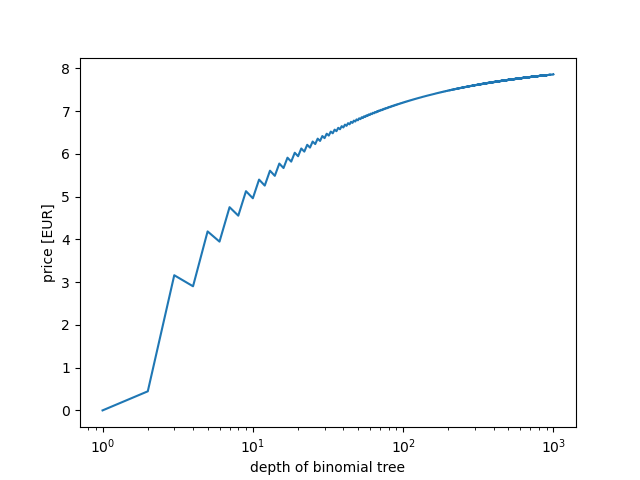
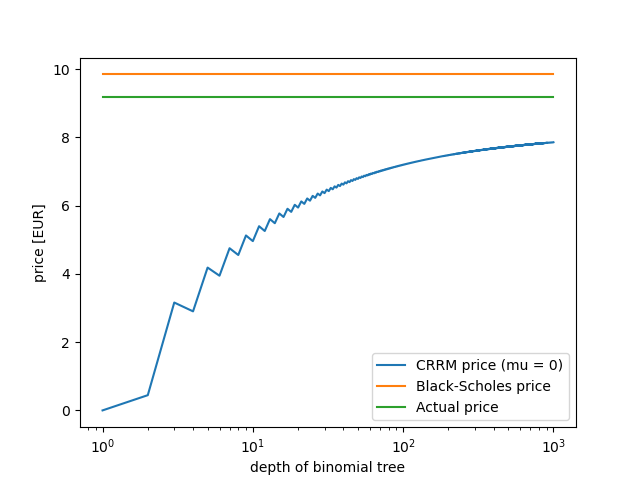
Code cleanup

diff --git a/crrm.py b/crrm.py
@@ -6,6 +6,7 @@
 from scipy.stats import norm
 from math import exp
 from math import log
+from math import nan
 from math import sqrt
 import matplotlib.pyplot as plt
 import sys
@@ -16,6 +17,7 @@ if sys.version_info[0] < 3:
     sys.exit()
 
 # parameters
+# V       verbose output
 # PLOT    plot function n: [1..PLOT] -> price: []
 #         set to 0 for simple depth-based calculation
 #         set to value > 0 for a plot with n in [1,value]
@@ -27,25 +29,33 @@ if sys.version_info[0] < 3:
 # CAP.    used for sprint: derivative does not yield additional returns when S > CAP
 # MUL.    multiplier for sprint: derivative yields MUL times more returns for range E < S < CAP
 #         sprint price is = {S <= E: S, E < S <= CAP: E + MUL * (S - E), CAP < S: E + 2 * (CAP - E)}
-# q...    dividend yield
+# q...    dividend yield NOT YET IMPLEMENTED
 # n...    height of the binomial tree
 # r...    interest rate
 # sigma.. volatility
 # mu..    expected return of log norm
 
-PLOT = 000
-PCS = 2
+V = 0
+PLOT = 1000
+PCS = 0
 T = 4/12            # 3 months remaining
 S = 119.1135
 E = 120.0000
 BAS = 126.0000
 CAP = 130.0000
 MUL = 2
-q = 0
+q = 0               # not implemented
 n = 1000
 r = -.04            # 3 months EURIBOR
 sigma = .3086
 mu = -0.0
+
+# catch invalid PCS value
+# PCS must be {1,2,3}
+
+if PCS < 0 or PCS > 2:
+    print("PCS={} is not defined. Use PCS = 1,2,3".format(PCS))
+    sys.exit()
 
 # calculate option value at expiration
 
@@ -69,12 +79,13 @@ def intrinsic_derivative_value(s):
         else:
             return CAP * 2 - BAS
     else:
-        # CP not defined
+        # PCS not defined
 
-        print("PCS={} is not defined. Use PCS = 1,2,3".format(PCS))
-        sys.exit()
+        print('this should never be reached..')
+        
 
 # used for recursive calculation in the binomial model
+
 def node_value(s1, s2, p, r, dt):
     pr = 1 - p
 
@@ -82,8 +93,8 @@ def node_value(s1, s2, p, r, dt):
 
     return (p * s1 + pr * s2) * exp(-r * dt)
     
-
-# calculate option prices for each state at expiration
+# Calculate Cox-Ross-Rubinstein Binomial Model
+# Return current price based on model
 
 def crrm(n):
 
@@ -111,7 +122,7 @@ def crrm(n):
 
     # print values for fun
 
-    if PLOT <= 0:
+    if V > 0:
         print('u={}, d={}, p={}'.format(u, d, p))
 
     # initialize 2d list in imperative language style because I don't know any better
@@ -119,56 +130,111 @@ def crrm(n):
     prices = [[]]
 
     # STRUCTURE:
-    # t=n       t=n-1   ..  t=1         t=1
+    # t=n       t=n-1   ..  t=1         t=0
     # [0][0]    [1][0]      [n-1][0]    [n][0]
     # [0][1]    [1][1]      [n-1][1]
     # [0][3]    [1][2]
     # [0][4]    [1][3]
     # [0][5]    [1][4]
-    # [0][6]    [1][5]
-    # [0][7]
+    # [0][6]      ..
+    #   ..      [1][n-1]
+    # [0][n]
+
+    # calculate option prices for each state at expiration
+    # save result in leaves
 
     for i in range(0, n + 1):
         prices[0].append(intrinsic_derivative_value(S * u ** (n - 2 * i)))
 
+    # traverse tree from leaves to root
+    # calculate node values based on the child node values
+
     for i in range(1, n):
+
+        # append list in prices to prevent index out of bounds
+
         prices.append([])
+
+        # calculate node value based on both child node values and save in current node
+
         for j in range(0, n - i):
             prices[i].append(node_value(prices[i - 1][j], prices[i - 1][j + 1], p, r, deltaT))
 
-    if PLOT <= 0:
-        print('Aktueller Preis nach CRRM mit n={}: {}'.format(n, prices[-1][0]))
-    else:
-        return prices[-1][0]
+    # the root is the current price
 
-# Black-Scholes
+    return prices[-1][0]
+
+# Caluclate Black-Scholes Model
+# Return current price based on model
 
 def bs():
     d1 = log(S/E) + (r + sigma * sigma / 2) * T / sigma / sqrt(T)
     d2 = d1 - sigma * sqrt(T)
 
-    if PCS > 0:
-        bs_price = S * norm.cdf(d1) - E * exp(-r * T) * norm.cdf(d2)
+
+    if PCS == 1:
+        # call option
+        return S * norm.cdf(d1) - E * exp(-r * T) * norm.cdf(d2)
+
+    elif PCS == 0:
+        # put option
+        return E * exp(-r * T) * norm.cdf(-d2) - S * norm.cdf(-d1)
 
     else:
-        bs_price = E * exp(-r * T) * norm.cdf(-d2) - S * norm.cdf(-d1)
+        # this should never be reached
+        print('PCS={}, PCS must be 0 or 1 to use Black-Scholes')
+        return nan
 
-    print('Aktueller Preis nach Black-Scholes: {}'.format(bs_price))
-
-# Run price calculation
+# no plot
+# if option -> calculate CRRM and BS
+# if sprint -> calculate CRRM
 
 if PLOT <= 0:
-    crrm(n)
+    crrm = crrm(n)
+    print('Aktueller Preis nach CRRM mit n={}: {}'.format(n, crrm))
+
     if PCS == 0 or PCS == 1:
-        bs()
+        bs = bs()
+        print('Aktueller Preis nach Black-Scholes: {}'.format(bs))
+
+# yes plot
+# if option -> calculate CRRM and BS
+# if sprint -> calculate CRRM
 
 else:
+
+    # collect price data for every depth from n to PLOT
+
     price_per_depth = []
+
     for i in range(1,PLOT + 1):
         price_per_depth.append(crrm(i))
 
-    plt.plot(list(range(1,PLOT + 1)), price_per_depth)
+    # x axis 1 to PLOT
+    # will be mapped to price per depth
+
+    x = list(range(1,PLOT + 1))
+
+    # plot price calculated with CRRM
+
+    plt.plot(x, price_per_depth, label='CRRM price (mu = 0)')
+
+    # plot price caluclated with BS and actual price for comparison
+
+    if PCS == 0 or PCS == 1:
+        plt.plot(x, [bs()] * PLOT, label='Black-Scholes price')
+        plt.plot(x, [9.1750] * PLOT, label='Actual price')
+    
+    # apply logarithmical scale to depth values on the x axis
+
     plt.xscale("log")
+
+    # make the plot prettier
+
     plt.xlabel('depth of binomial tree')
     plt.ylabel('price [EUR]')
+    plt.legend()
+
+    # render the plot
+
     plt.show()
